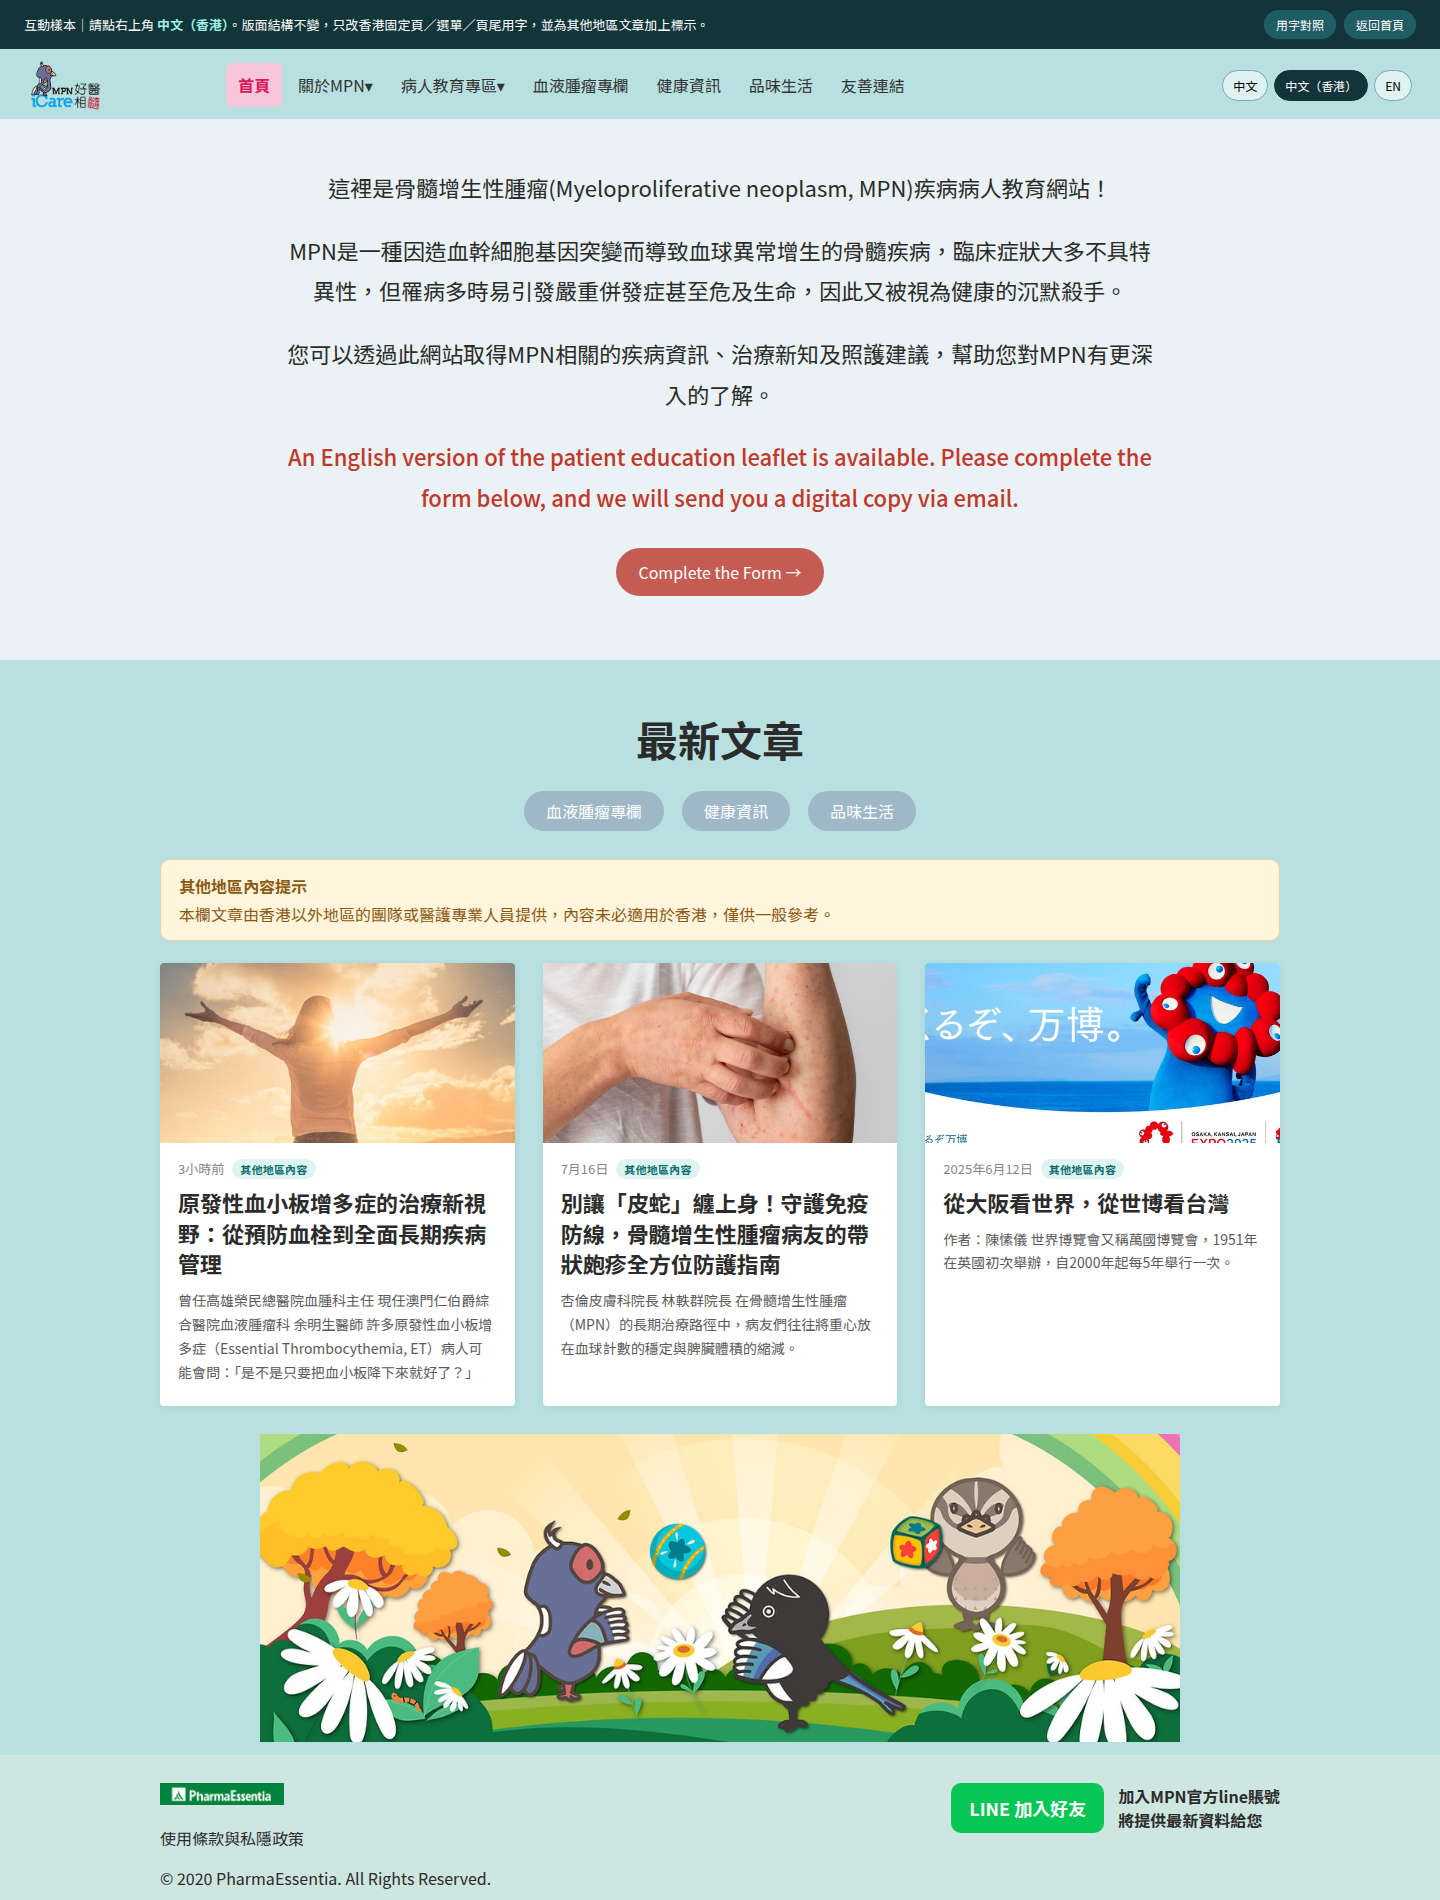
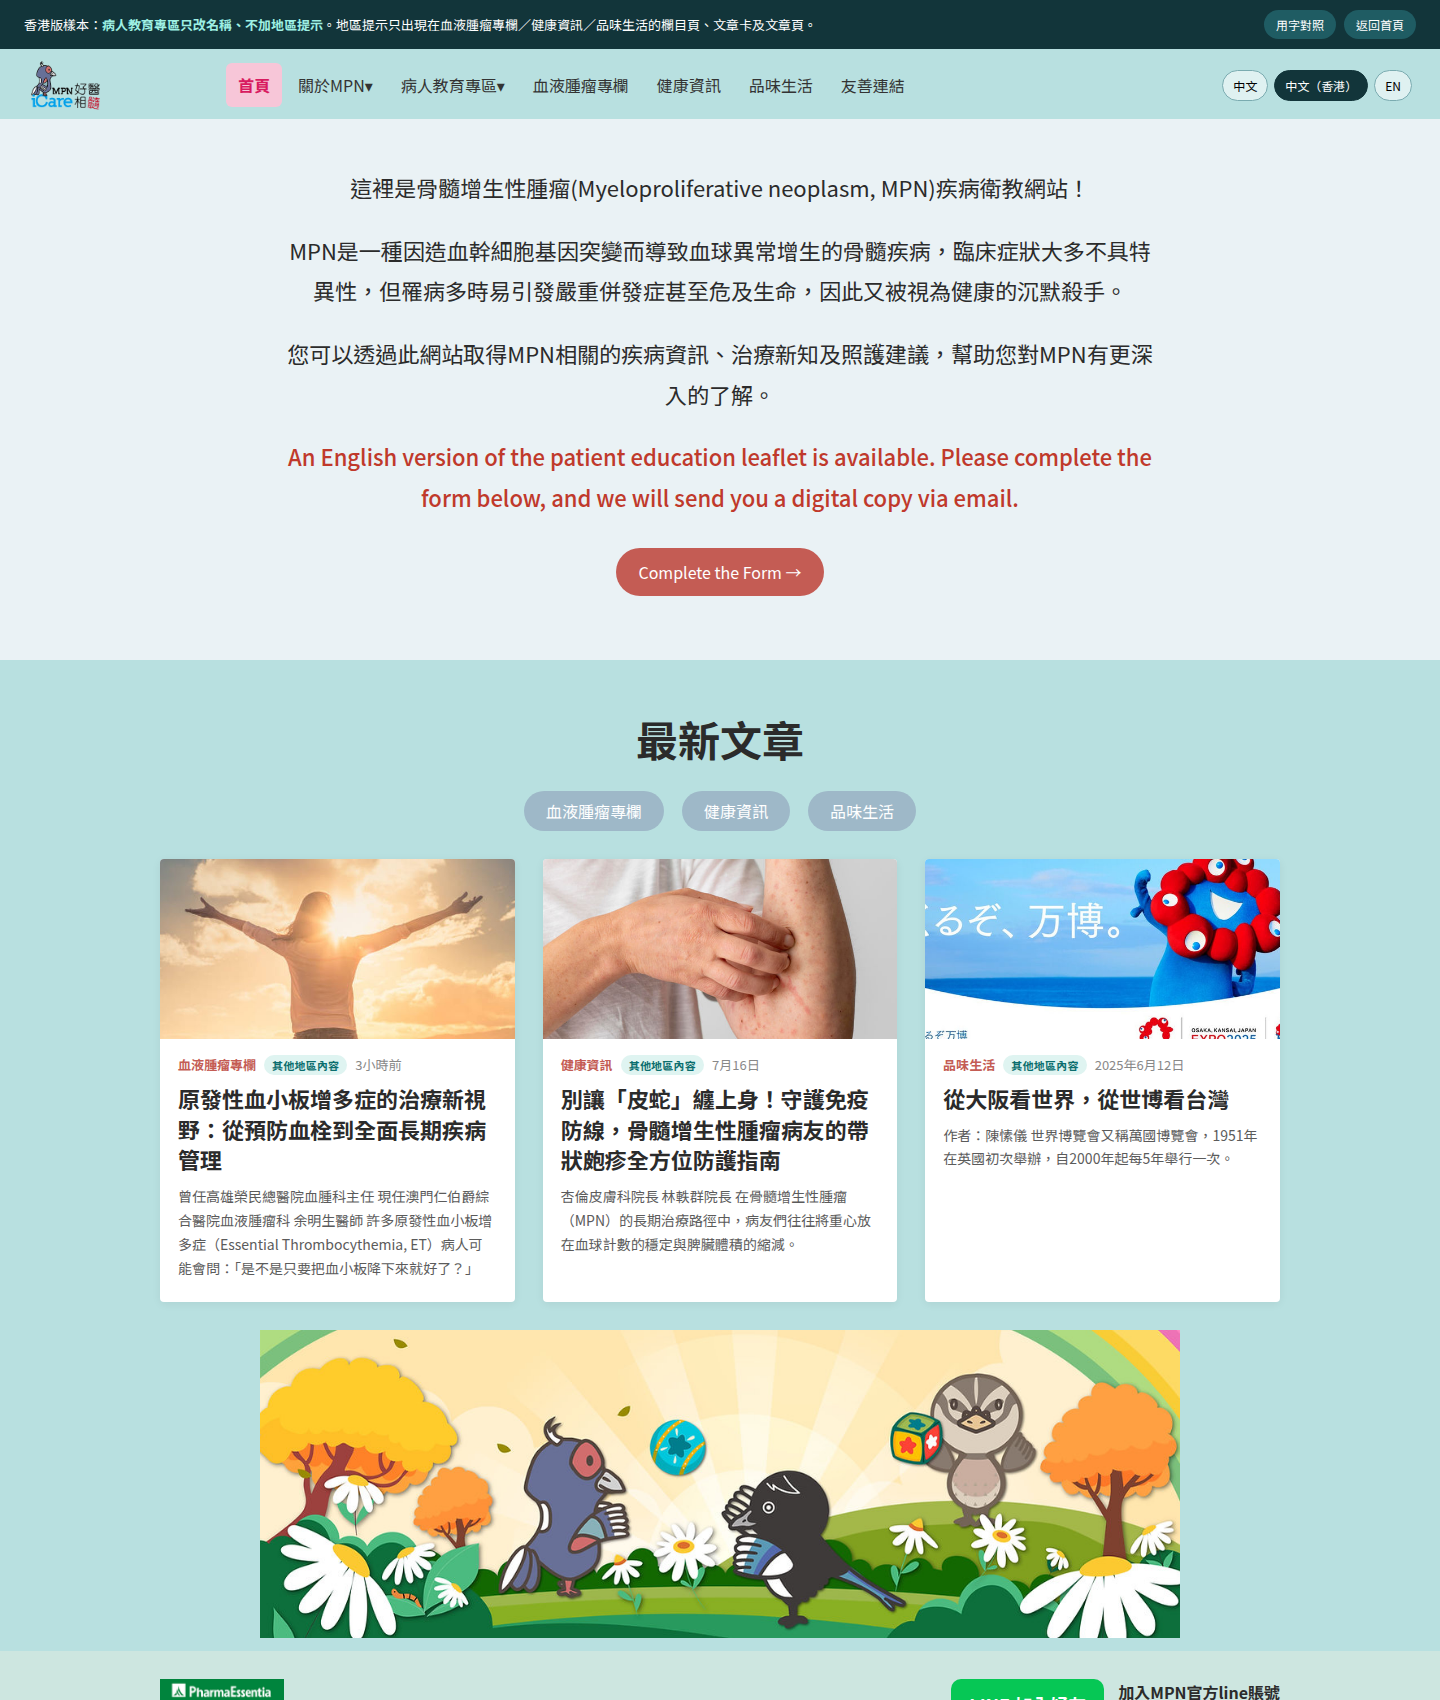
Limit regional-content notices to the three source columns.
Patient education is Hong Kong chrome only (rename, no banner). Homepage no longer shows a page-level warning. Blood oncology, health info, and lifestyle keep a slim column notice plus card/article labels.

diff --git a/samples/mpnicare-hk-locale/index.html b/samples/mpnicare-hk-locale/index.html
@@ -196,16 +196,17 @@
 
     .banner {
       max-width: 1120px;
-      margin: 0 auto 22px;
-      background: var(--warn-bg);
-      border: 1px solid #efd29a;
-      color: var(--warn);
-      padding: 14px 18px;
-      border-radius: 10px;
+      margin: 0 auto 18px;
+      background: #f7f7f7;
+      border-left: 3px solid #9eb8c8;
+      color: #555;
+      padding: 8px 14px;
+      font-size: 14px;
+      line-height: 1.6;
       display: none;
     }
-    .banner.show { display: block; }
-    .banner b { display: block; margin-bottom: 4px; }
+    html[data-locale="zh-HK"] .banner.regional { display: block; }
+    .banner b { font-weight: 700; margin-right: 6px; }
     .tag {
       display: none;
       background: var(--tag-bg);
@@ -217,9 +218,7 @@
       letter-spacing: .02em;
     }
     html[data-locale="zh-HK"] .tag { display: inline-flex; }
-    html[data-locale="zh-HK"] .banner { display: block; }
-    html[data-locale="zh-HK"] .hk-only { display: block; }
-    .hk-only { display: none; }
+    .cat-name { color: #c45c54; font-weight: 700; font-size: 13px; }
     .article-flag {
       display: none;
       color: var(--tag);
@@ -308,7 +307,7 @@
 </head>
 <body>
   <div class="sample-bar">
-    <div>這是可點擊的網頁樣本（不是程式碼）。請點右上角 <strong>中文（香港）</strong> 查看香港版。版面結構不變，只改固定頁／選單／頁尾用字，並為其他地區文章加上標示。</div>
+    <div>香港版樣本：<strong>病人教育專區只改名稱、不加地區提示</strong>。地區提示只出現在血液腫瘤專欄／健康資訊／品味生活的欄目頁、文章卡及文章頁。</div>
     <div class="actions">
       <button type="button" data-go="matrix">用字對照</button>
       <button type="button" data-go="home">返回首頁</button>
@@ -394,7 +393,7 @@
         lifeTitle: "品味生活",
         links: "友善連結",
         terms: "使用條款與私隱政策",
-        hero1: "這裡是骨髓增生性腫瘤(Myeloproliferative neoplasm, MPN)疾病病人教育網站！",
+        hero1: "這裡是骨髓增生性腫瘤(Myeloproliferative neoplasm, MPN)疾病衛教網站！",
         hero2: "MPN是一種因造血幹細胞基因突變而導致血球異常增生的骨髓疾病，臨床症狀大多不具特異性，但罹病多時易引發嚴重併發症甚至危及生命，因此又被視為健康的沉默殺手。",
         hero3: "您可以透過此網站取得MPN相關的疾病資訊、治療新知及照護建議，幫助您對MPN有更深入的了解。",
         latest: "最新文章",
@@ -428,8 +427,7 @@
         author: "余明生醫師　曾任高雄榮民總醫院血腫科主任　現任澳門仁伯爵綜合醫院血液腫瘤科",
         body: `<p>許多原發性血小板增多症（Essential Thrombocythemia, ET）病人可能會問：「是不是只要把血小板降下來就好了？」其實，現代 ET 治療的核心並不光是追求某一個血小板數字，而是降低血栓與出血風險、改善症狀，並兼顧長期治療安全性與生活品質。</p>
         <p>隨著我們對 ET 的理解增加，醫學界也開始思考更長遠的問題：除了控制血球之外，治療是否可能進一步影響造成疾病的異常造血細胞，甚至改變疾病的自然病程？這就是目前所謂的「疾病修飾（disease modification）」概念。</p>
-        <p><b>ET 不只是血小板升高</b><br>ET 是一種慢性骨髓增生性腫瘤（Myeloproliferative Neoplasm, MPN），多數病友具有 JAK2、CALR 或 MPL 等驅動基因變化。因此，ET 並非單純的血小板過高，而是異常造血細胞長期增生所造成的慢性疾病。除了血栓與出血之外，少部分病友長期可能進展為骨髓纖維化或急性骨髓性白血病。</p>
-        <p>本文為其他地區原文，治療方法、藥物名稱、研究數據及當地用語均按原文保留，不作香港化改寫。</p>`
+        <p><b>ET 不只是血小板升高</b><br>ET 是一種慢性骨髓增生性腫瘤（Myeloproliferative Neoplasm, MPN），多數病友具有 JAK2、CALR 或 MPL 等驅動基因變化。因此，ET 並非單純的血小板過高，而是異常造血細胞長期增生所造成的慢性疾病。除了血栓與出血之外，少部分病友長期可能進展為骨髓纖維化或急性骨髓性白血病。</p>`
       },
       health: {
         date: "7月16日",
@@ -438,8 +436,7 @@
         img: "https://static.wixstatic.com/media/85705e_c6d03b2f29454d16af1822a01f3cb1f0~mv2.jpg/v1/fill/w_734,h_320,fp_0.50_0.50,q_80/85705e_c6d03b2f29454d16af1822a01f3cb1f0~mv2.jpg",
         author: "杏倫皮膚科院長　林軼群院長",
         body: `<p>在骨髓增生性腫瘤（MPN）的長期治療路徑中，病友們往往將重心放在血球計數的穩定與脾臟體積的縮減。然而，對於真性紅血球增多症（PV）、原發性血小板增多症（ET）及骨髓纖維化（MF）的病友而言，另一個不容忽視的併發症—帶狀皰疹（Herpes Zoster，俗稱「皮蛇」），正悄悄威脅著大家的生活品質。</p>
-        <p>本文將帶領病友深入了解 MPN 與帶狀皰疹的關係，並著重於「早期發現」與「精準預防」的關鍵策略。</p>
-        <p>本文為其他地區原文，治療內容、藥物名稱及數據均按原文保留。</p>`
+        <p>本文將帶領病友深入了解 MPN 與帶狀皰疹的關係，並著重於「早期發現」與「精準預防」的關鍵策略。</p>`
       },
       life: {
         date: "2025年6月12日",
@@ -448,8 +445,7 @@
         img: "https://static.wixstatic.com/media/85270a_4f96420fb0574e72aa83623ac12876ee~mv2.jpg/v1/fill/w_734,h_320,fp_0.50_0.50,q_80/85270a_4f96420fb0574e72aa83623ac12876ee~mv2.jpg",
         author: "作者：陳愫儀",
         body: `<p>世界博覽會又稱萬國博覽會，1951年在英國初次舉辦，自2000年起每5年舉行一次，由國際展覽局（BIE）的157個會員國提出申請主辦，主辦的目的在於向全世界展現各自國家的文化與特色。</p>
-        <p>1971年，台灣以中華民國的名義第一次參加匈牙利布達佩斯世界博覽會……</p>
-        <p>本文為其他地區原文，當地機構名稱、制度及用語均按原文保留。</p>`
+        <p>1971年，台灣以中華民國的名義第一次參加匈牙利布達佩斯世界博覽會……</p>`
       }
     };
 
@@ -527,14 +523,17 @@
       `;
     }
 
-    function card(key) {
+    function catName(key) {
       const x = t();
+      return key === "medical" ? x.medical : key === "health" ? x.health : x.lifeTitle;
+    }
+
+    function card(key) {
       const a = ARTICLES[key];
-      const cat = key === "medical" ? x.medical : key === "health" ? x.health : x.lifeTitle;
       return `<article class="card" data-article="${key}">
         <img src="${a.img}" alt="">
         <div class="body">
-          <div class="meta"><span>${a.date}</span><span class="tag">其他地區內容</span></div>
+          <div class="meta"><span class="cat-name">${catName(key)}</span><span class="tag">其他地區內容</span><span>${a.date}</span></div>
           <h3>${a.title}</h3>
           <p>${a.excerpt}</p>
         </div>
@@ -543,22 +542,42 @@
 
     function listPage(key) {
       const x = t();
-      const title = key === "medical" ? x.medical : key === "health" ? x.health : x.lifeTitle;
-      const extras = Object.keys(ARTICLES).includes(key) ? card(key) : "";
+      const title = catName(key);
+      const extras = extraCards(key);
       return `<section class="wrap">
         <h1 class="page-title">${title}</h1>
-        <div class="banner"><b>${x.catBannerTitle}</b>${x.catBanner}</div>
-        <div class="cards" style="grid-template-columns:repeat(auto-fit,minmax(280px,1fr))">${extras}${key === "medical" ? extraCards() : ""}</div>
+        <div class="banner regional"><b>${x.catBannerTitle}</b>${x.catBanner}</div>
+        <div class="cards" style="grid-template-columns:repeat(auto-fit,minmax(280px,1fr))">${card(key)}${extras}</div>
       </section>`;
     }
 
-    function extraCards() {
-      return `<article class="card" data-article="medical">
-        <img src="${ARTICLES.medical.img}" alt="">
+    function extraCards(key) {
+      if (key === "medical") {
+        return `<article class="card" data-article="medical">
+          <img src="${ARTICLES.medical.img}" alt="">
+          <div class="body">
+            <div class="meta"><span class="cat-name">${catName("medical")}</span><span class="tag">其他地區內容</span><span>讀畢需時 5 分鐘</span></div>
+            <h3>骨髓增生性腫瘤（MPN）常見治療方法</h3>
+            <p>余明生醫師 曾任高雄榮民總醫院血腫科主任……</p>
+          </div>
+        </article>`;
+      }
+      if (key === "health") {
+        return `<article class="card" data-article="health">
+          <img src="${ARTICLES.health.img}" alt="">
+          <div class="body">
+            <div class="meta"><span class="cat-name">${catName("health")}</span><span class="tag">其他地區內容</span><span>讀畢需時 2 分鐘</span></div>
+            <h3>從心找到力量</h3>
+            <p>朱怡苹臨床心理師 伴旅心理治療所／初色心理治療所……</p>
+          </div>
+        </article>`;
+      }
+      return `<article class="card" data-article="life">
+        <img src="${ARTICLES.life.img}" alt="">
         <div class="body">
-          <div class="meta"><span>讀畢需時 5 分鐘</span><span class="tag">其他地區內容</span></div>
-          <h3>骨髓增生性腫瘤（MPN）常見治療方法</h3>
-          <p>余明生醫師 曾任高雄榮民總醫院血腫科主任……（正文原文保留，不因香港語系改寫。）</p>
+          <div class="meta"><span class="cat-name">${catName("life")}</span><span class="tag">其他地區內容</span><span>讀畢需時 3 分鐘</span></div>
+          <h3>欲賞鬱金香花宴，庫肯霍夫花園見</h3>
+          <p>鬱金香與荷蘭有著非比尋常的愛恨情仇……</p>
         </div>
       </article>`;
     }
@@ -594,7 +613,6 @@
               <button class="chip" data-go="health">${x.health}</button>
               <button class="chip" data-go="life">${x.lifeTitle}</button>
             </div>
-            <div class="banner"><b>${x.catBannerTitle}</b>${x.catBanner}</div>
             <div class="cards">
               ${card("medical")}${card("health")}${card("life")}
             </div>
@@ -660,7 +678,8 @@
         ["首頁", "並發症（現行香港機翻）", "併發症", "醫學正字"],
         ["關於MPN", "紅細胞／白細胞／按我了解更多", "紅血球／白血球／按此了解更多", "避免機翻把原文改差"],
         ["病人教育專區", "衛教專區／紅細胞增多症／有愛相髓…", "病人教育專區／紅血球增多症／病友故事集", "只改分類名稱"],
-        ["欄目頁／文章卡／文章頁", "（無標示）", "其他地區內容提示＋標籤＋一行聲明", "正文、藥物、數據不改"],
+        ["血腫／健康／品味 欄目頁", "（無標示）", "標題下加一欄「其他地區內容提示」", "不套用到病人教育專區"],
+        ["該三欄文章卡／文章頁", "（無標示）", "分類名旁標籤；標題下加一行", "正文、藥物、數據不改"],
         ["使用條款", "個資／個資法3、10、11條／百份百／藥華藥", "個人資料／《私隱》條例重寫／百分百／藥華醫藥", "法律稿，須合規審閱"]
       ];
       return `<section class="wrap">

diff --git a/samples/mpnicare-hk-locale/REVIEW.html b/samples/mpnicare-hk-locale/REVIEW.html
@@ -27,7 +27,7 @@
 <body>
   <header>
     <h1>MPNicare Hong Kong Chinese overlay — visual review</h1>
-    <p>Layout matches the live site. The Hong Kong version only changes menu / titles / footer / terms, and adds “其他地區內容” labels. Article bodies are not rewritten.</p>
+    <p>版面維持不變。香港版只改選單／頁尾／固定頁用字。地區提示<strong>只加在血液腫瘤專欄、健康資訊、品味生活</strong>；病人教育專區只改名稱，不加「其他地區內容」提示。</p>
   </header>
   <div class="call"><b>How to use this file:</b> scroll the screenshots below. To try the live toggle, open <a href="index.html">index.html</a> and click <b>中文（香港）</b> at the top right.</div>
   <nav>
@@ -40,7 +40,7 @@
 
   <section id="compare">
     <h2>1. Homepage — click 中文（香港）</h2>
-    <p class="note">Same grid. Hong Kong menu becomes 病人教育專區 / 血液腫瘤專欄 / 健康資訊 / 品味生活. Cards get a teal “其他地區內容” tag. A yellow banner appears above the article row.</p>
+    <p class="note">Same grid. Hong Kong menu becomes 病人教育專區 / 血液腫瘤專欄 / 健康資訊 / 品味生活. Homepage has no full-page warning. Regional cards get a small tag beside the category name.</p>
     <div class="grid">
       <figure>
         <img src="https://raw.githubusercontent.com/jackiechow4567-arch/Consultant-agents/cursor/mpnicare-hk-locale-sample-96b9/samples/mpnicare-hk-locale/screenshots/sample-tw-home.png" alt="Traditional Chinese homepage, original chrome" />
@@ -48,7 +48,7 @@
       </figure>
       <figure>
         <img src="https://raw.githubusercontent.com/jackiechow4567-arch/Consultant-agents/cursor/mpnicare-hk-locale-sample-96b9/samples/mpnicare-hk-locale/screenshots/sample-hk-home.png" alt="Hong Kong Chinese homepage overlay" />
-        <figcaption><b>中文（香港）.</b> Menu localised. Yellow regional banner. Card tags. Footer uses 賬號 / 資料 / 私隱政策.</figcaption>
+        <figcaption><b>中文（香港）.</b> Menu localised. No homepage warning box. Card tags sit beside the category name. Footer uses 賬號 / 資料 / 私隱政策.</figcaption>
       </figure>
     </div>
   </section>
@@ -64,7 +64,7 @@
 
   <section id="edu">
     <h2>3. Patient education — names only</h2>
-    <p class="note">衛教專區 → 病人教育專區. 認識紅血球增多症. 有愛相髓病友故事集 → 病友故事集. Tile layout unchanged.</p>
+    <p class="note">衛教專區 → 病人教育專區. 認識紅血球增多症. 病友故事集. Layout unchanged. <b>No</b> 「其他地區內容提示」 on this page.</p>
     <figure>
       <img src="https://raw.githubusercontent.com/jackiechow4567-arch/Consultant-agents/cursor/mpnicare-hk-locale-sample-96b9/samples/mpnicare-hk-locale/screenshots/sample-hk-edu.png" alt="Hong Kong patient education page" />
       <figcaption>Four category tiles, same positions, Hong Kong names only.</figcaption>
